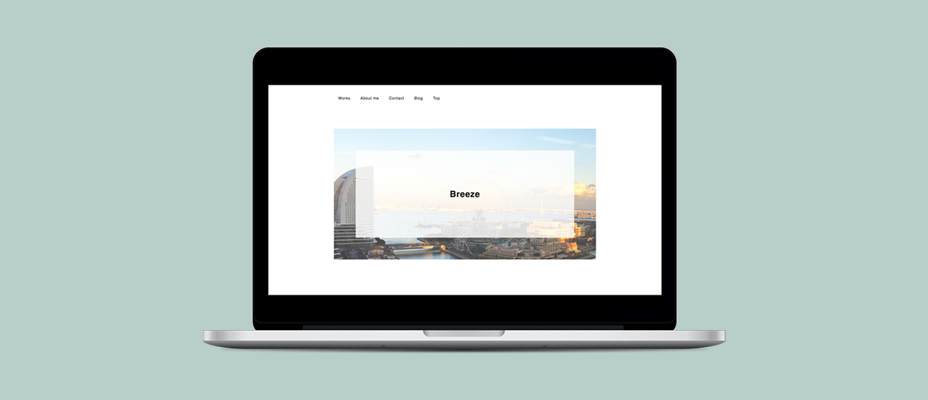
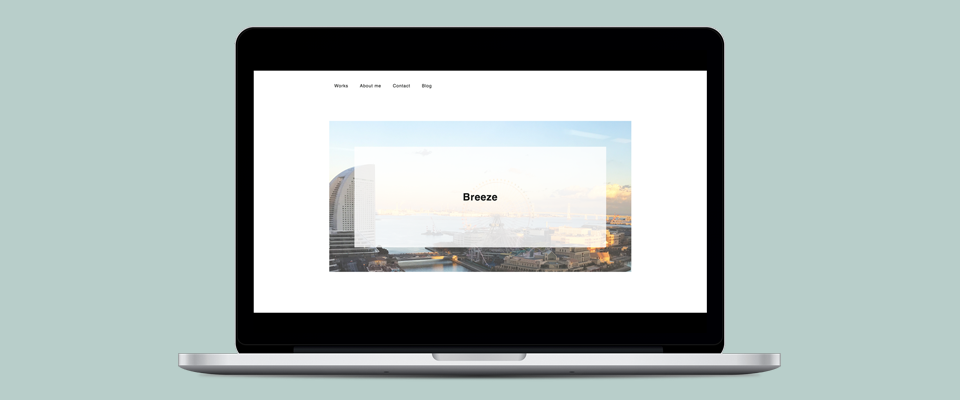
responsive
180701

Changed region(s): [[0.1875, 0.06, 0.8125, 0.96], [0.3438, 0.3, 0.6562, 0.69], [0.4688, 0.48, 0.5312, 0.51]]

diff --git a/works/portfolio.html b/works/portfolio.html
@@ -37,9 +37,9 @@
         </ul>
          <p>また、Breezeというサイトタイトルは、自身の名前から連想させたものです。出身地が横浜のため、Top画像にみなとみらいの写真を大きく配置しました。
            写真は自身にて撮影し、Photoshopにて明度や彩度を調節しています。</p>
-         <p>2018.6.23 現在レスポンシブ対応を進めています。</p>
     </div>
-  <img src="portfolio/portfolio-all.png" alt="ポートフォリオ">
+  <img src="portfolio/all.png" alt="ポートフォリオ">
+  <img src="portfolio/sp.png" alt="ポートフォリオ">
   <p class="gototop"><a href="../index.html">◀ Back</a></p>
   </div>
 <footer>

diff --git a/works/worksstyle.css b/works/worksstyle.css
@@ -18,6 +18,7 @@
 
 .works img {
 	vertical-align: bottom;
+	margin: 16px 0;
 }
 
 /* works-desc */
